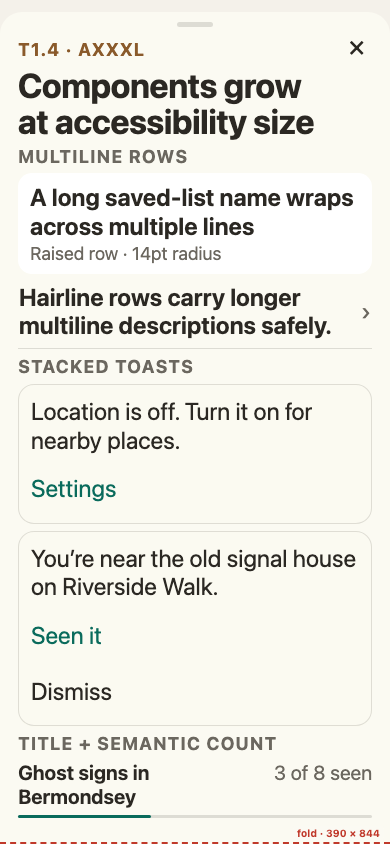
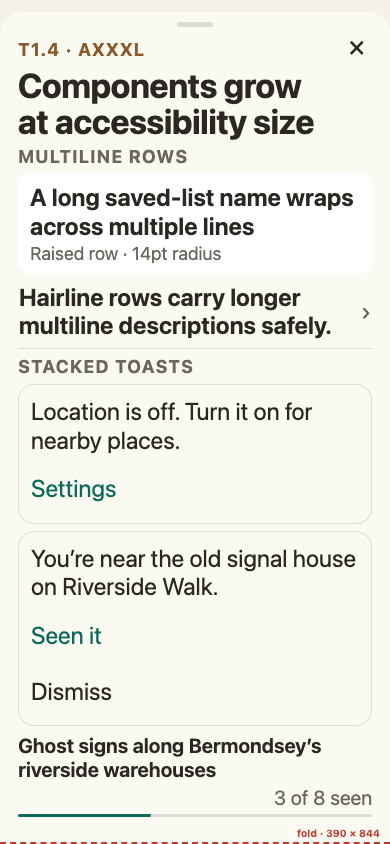
Correct AX progress fallback evidence

Changed region(s): [[0.0308, 0.8626, 0.9538, 0.9858]]

diff --git a/docs/design/design-system/t1.4-components-b-ax.html b/docs/design/design-system/t1.4-components-b-ax.html
@@ -64,13 +64,13 @@
   }
   .toast-action { min-width: 44px; height: 44px; display: flex; align-items: center; }
   .dismiss { color: var(--ink); }
-  .progress { display: grid; gap: 6px; }
+  .progress { display: grid; gap: 4px; margin-top: 8px; }
   .progress-head {
-    display: flex; align-items: first baseline; justify-content: space-between;
-    gap: 12px; font-size: 20px; line-height: 1.2;
+    display: flex; flex-direction: column; align-items: stretch;
+    gap: 4px; font-size: 20px; line-height: 1.2;
   }
-  .progress-title { min-width: 0; font-weight: 650; }
-  .progress-count { flex: none; color: var(--muted); white-space: nowrap; }
+  .progress-title { width: 100%; min-width: 0; font-weight: 650; }
+  .progress-count { align-self: flex-end; color: var(--muted); white-space: nowrap; }
   .track { height: 3px; border-radius: 999px; background: var(--hairline); }
   .fill { height: 3px; border-radius: 999px; background: var(--accent); }
   .fold { position: absolute; left: 0; right: 0; bottom: 0; border-top: 2px dashed #C0392B; }
@@ -111,9 +111,8 @@
         </div>
       </div>
 
-      <div class="section">Title + semantic count</div>
       <div class="progress">
-        <div class="progress-head"><span class="progress-title">Ghost signs in Bermondsey</span><span class="progress-count">3 of 8 seen</span></div>
+        <div class="progress-head"><span class="progress-title">Ghost signs along Bermondsey&rsquo;s riverside warehouses</span><span class="progress-count">3 of 8 seen</span></div>
         <div class="track"><div class="fill" style="width:37.5%"></div></div>
       </div>
     </div>
